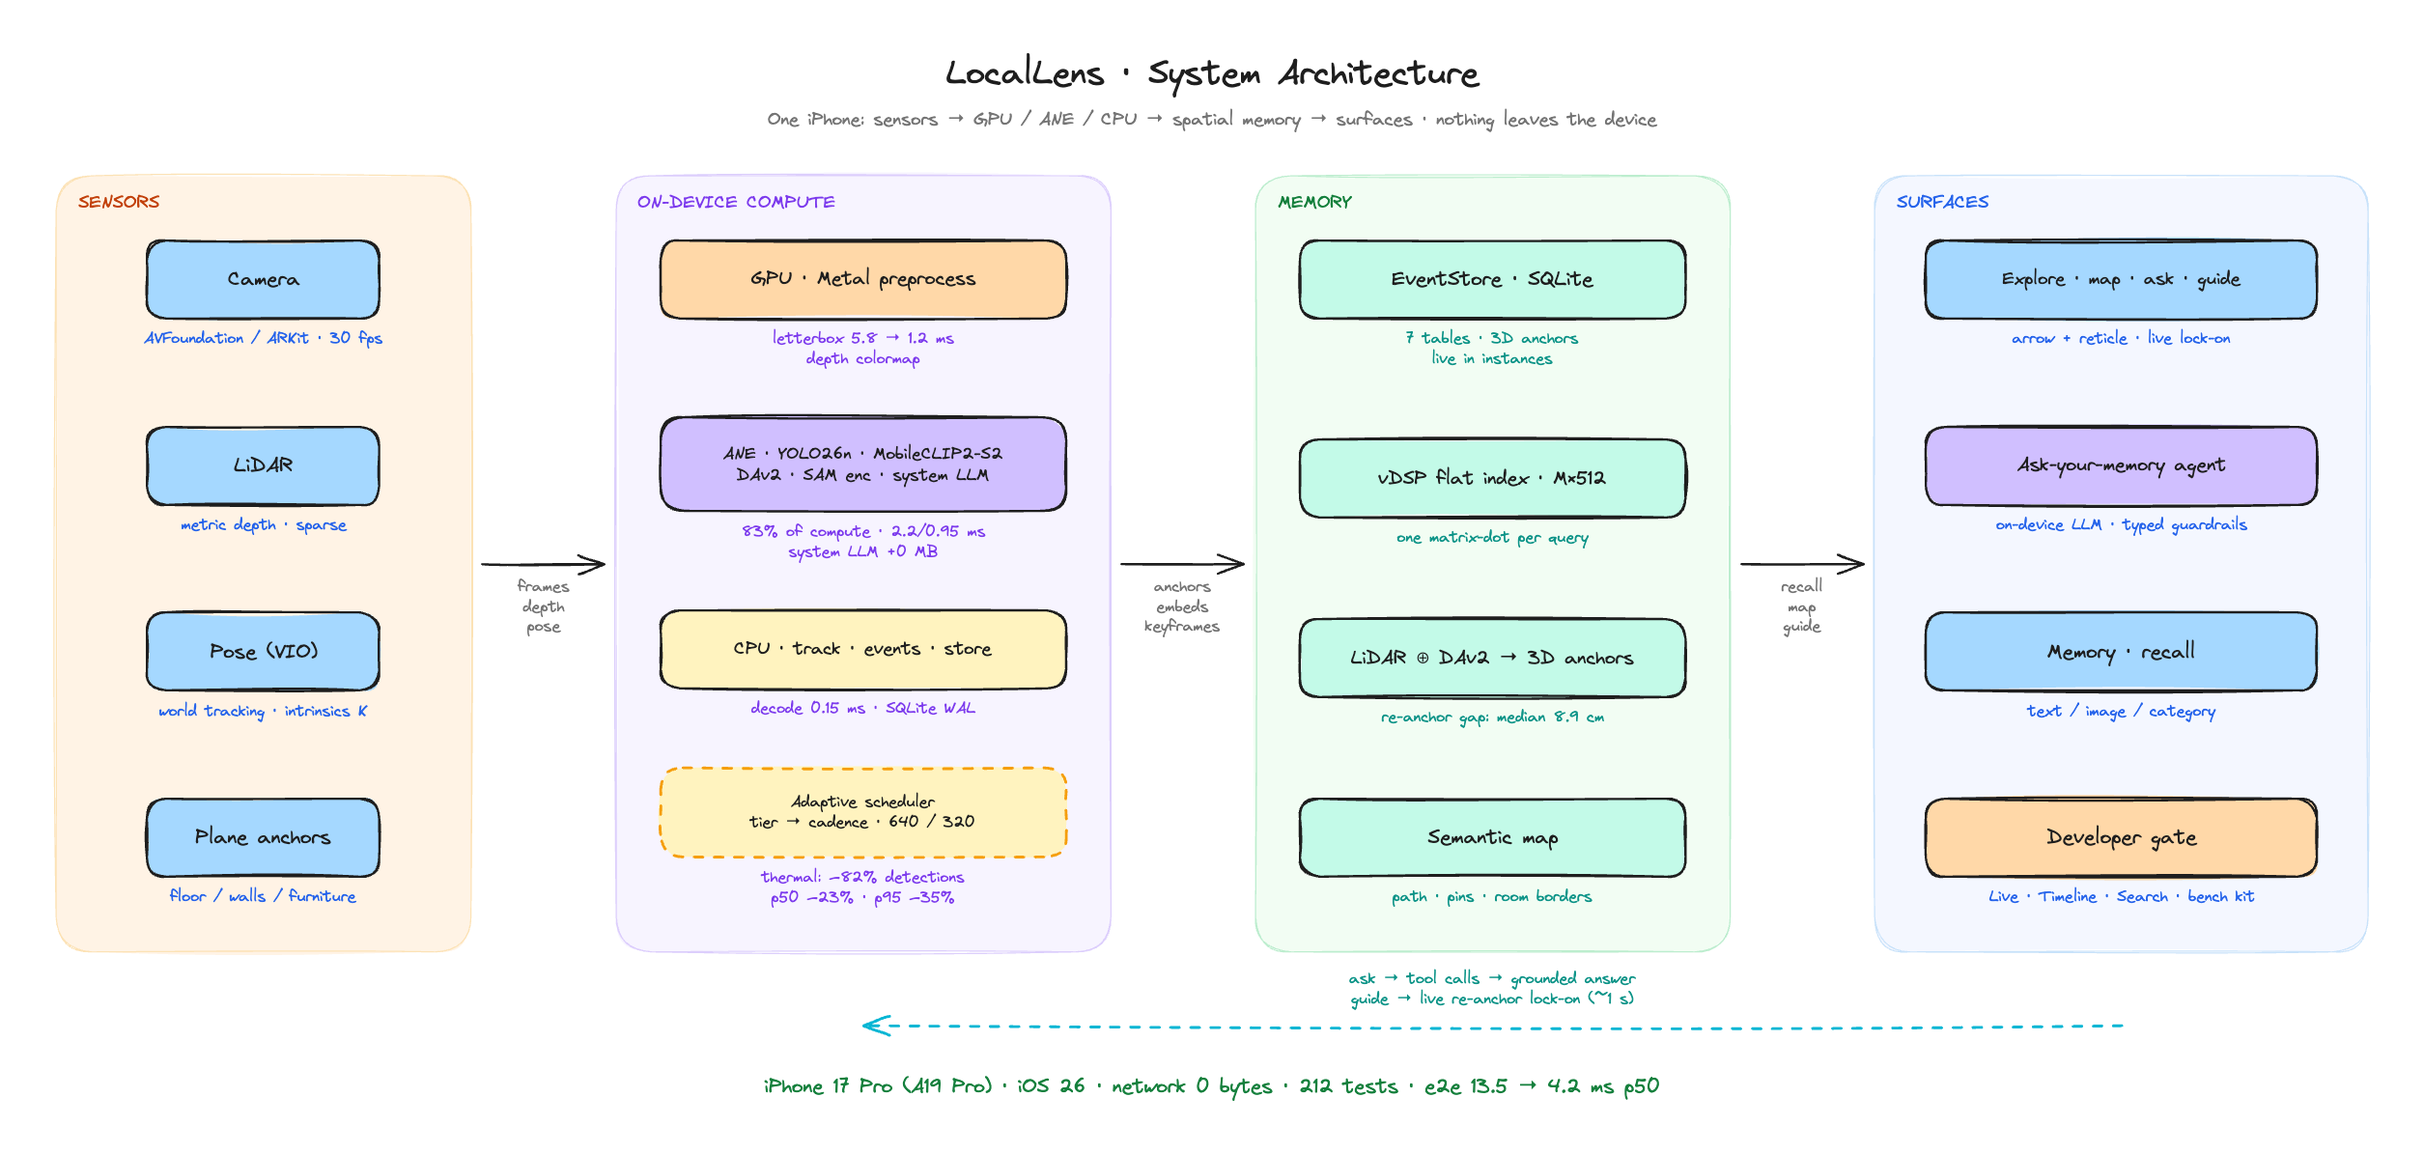
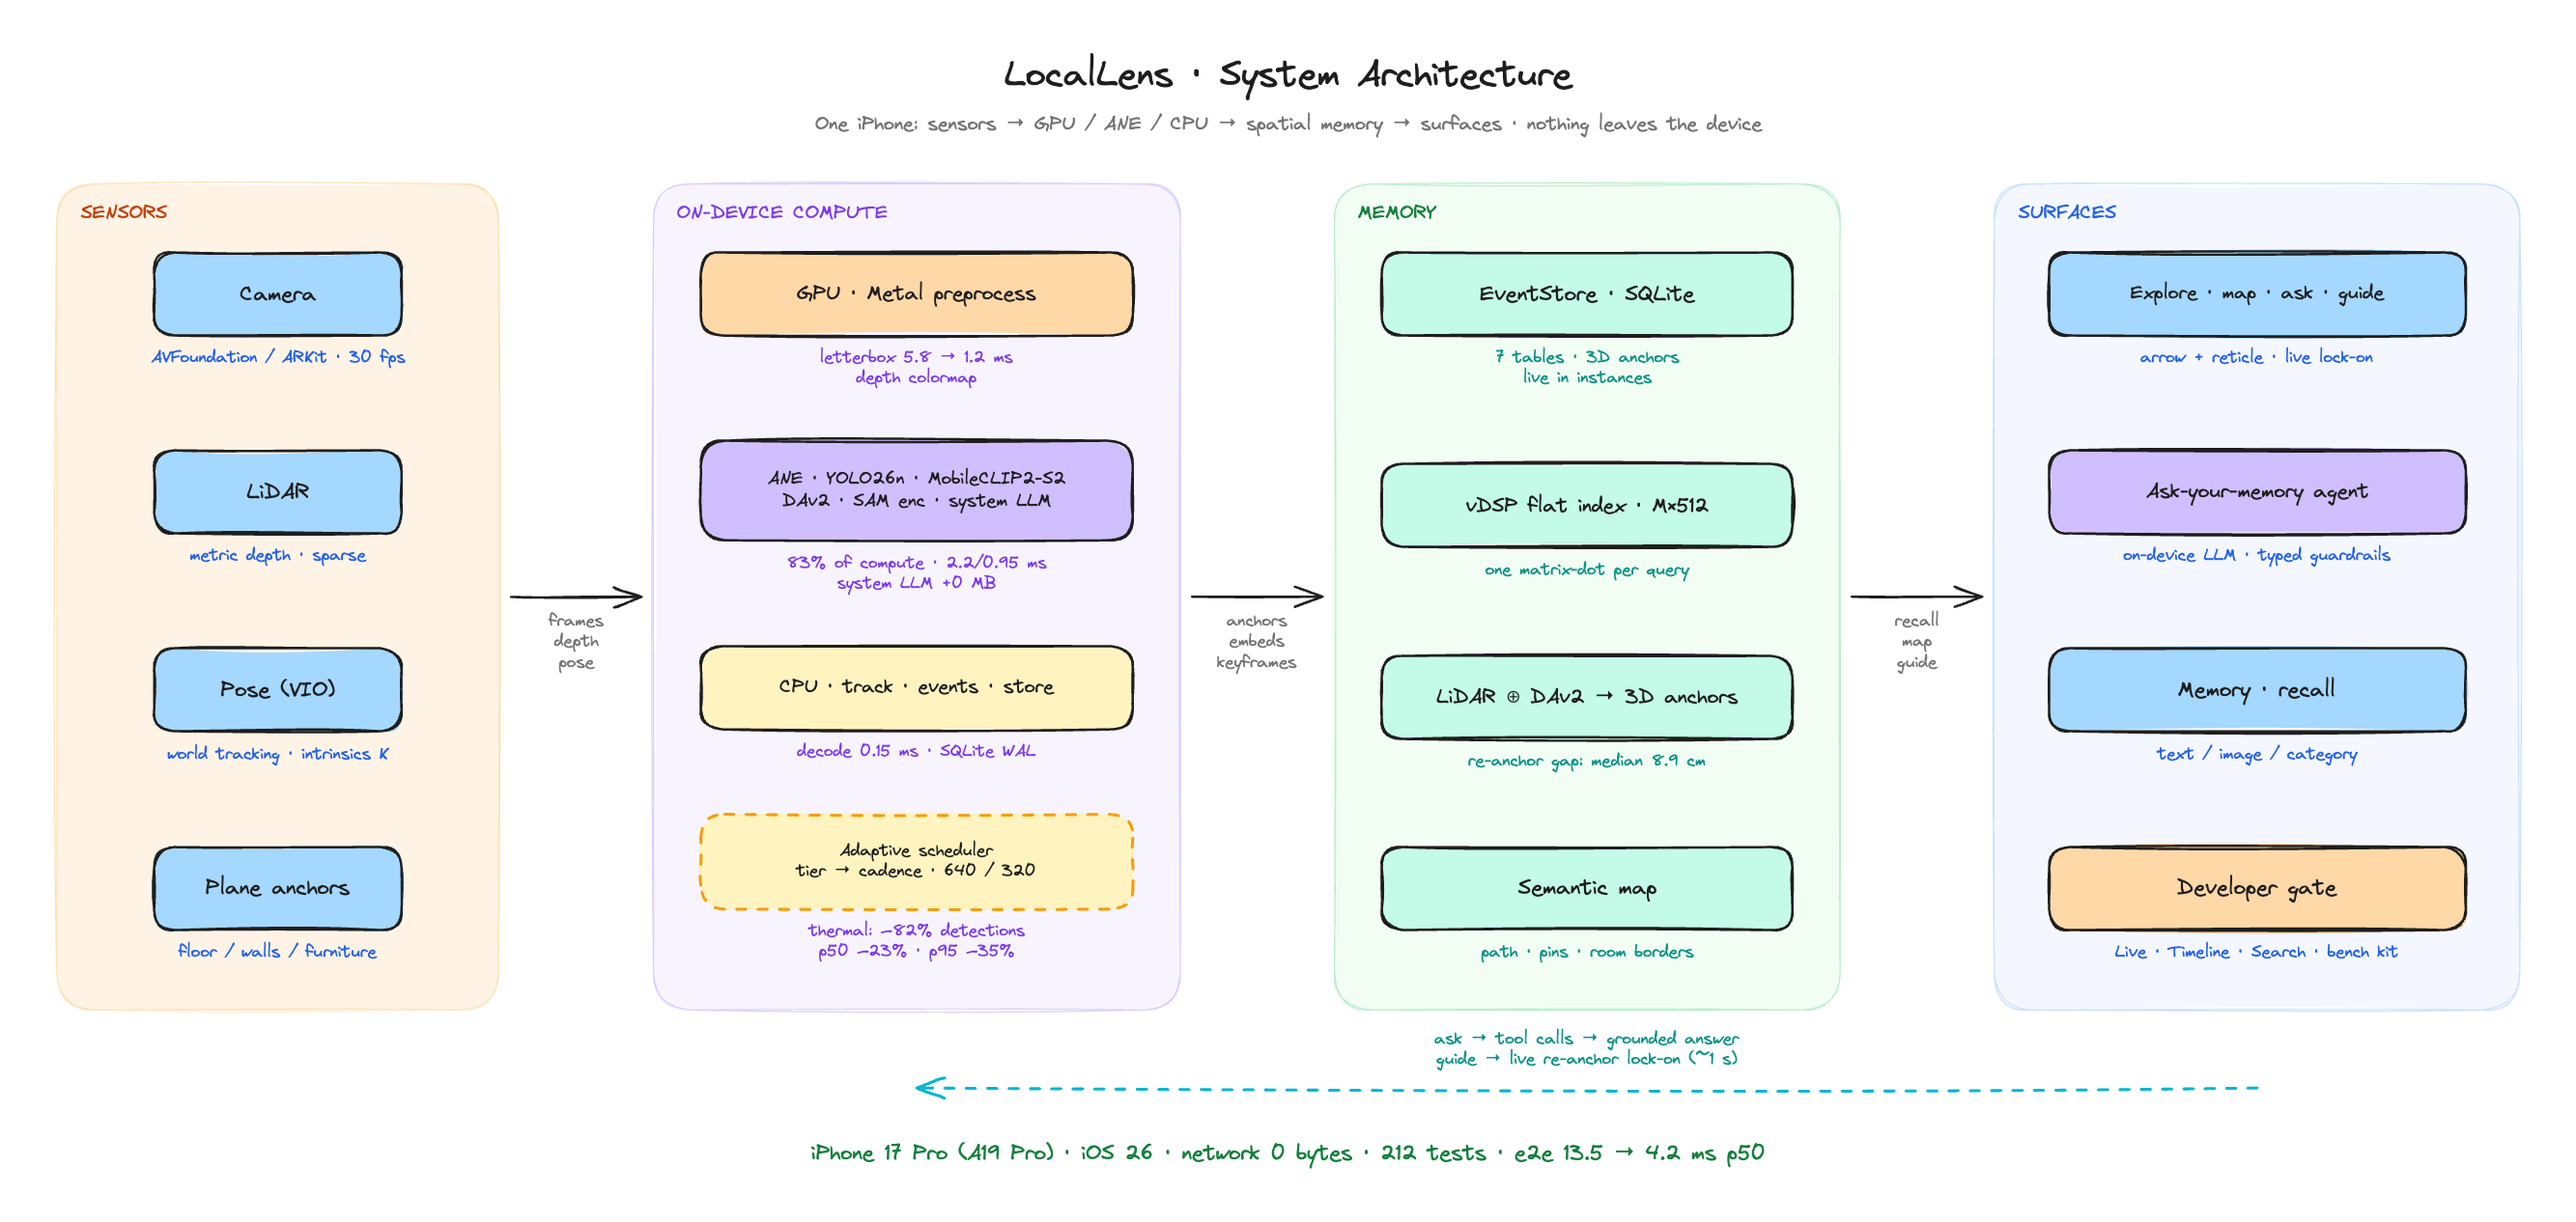
LocalLens diagrams: readable at column width, no zoom needed
All ten excalidraw diagrams regenerated with denser text metrics:
per-char width estimate 0.72 -> 0.62 (was leaving ~15% dead width in
every box) and a readability floor that lifts body/annotation fonts
~22% while titles keep their scale. Net effect: the smallest text at
the 1280px display width goes from ~7.5px to 10-16px. The compact
memory-schema figure is width-capped (1150px) so it no longer towers;
its merge label got a wider zone gap after the font lift re-broke it.
Transparent (web) + white (PDF) variants re-extracted; all ten
verified rendered for wraps/overlaps.

diff --git a/projects/locallens.html b/projects/locallens.html
@@ -134,7 +134,7 @@
       ships in the same binary behind a Developer Mode toggle.</p>
 
       <figure class="article__figure article__figure--wide">
-        <a href="../images/portfolio/projects/locallens/d1-system-architecture.png" target="_blank" rel="noopener noreferrer" title="Open full size"><img src="../images/portfolio/projects/locallens/d1-system-architecture.png" alt="LocalLens system architecture diagram" width="2510" height="1195" loading="lazy"></a>
+        <a href="../images/portfolio/projects/locallens/d1-system-architecture.png" target="_blank" rel="noopener noreferrer" title="Open full size"><img src="../images/portfolio/projects/locallens/d1-system-architecture.png" alt="LocalLens system architecture diagram" width="2667" height="1266" loading="lazy"></a>
         <figcaption>Figure 2. One iPhone: sensors &rarr; GPU/ANE/CPU &rarr; spatial memory &rarr; surfaces.
         The dashed return path is the ask-and-guide loop.</figcaption>
       </figure>
@@ -277,7 +277,7 @@
       state-by-content matrix is unit-tested on a Mac.</p>
 
       <figure class="article__figure article__figure--wide">
-        <a href="../images/portfolio/projects/locallens/d3-adaptive-scheduler.png" target="_blank" rel="noopener noreferrer" title="Open full size"><img src="../images/portfolio/projects/locallens/d3-adaptive-scheduler.png" alt="Adaptive scheduler diagram" width="2665" height="1641" loading="lazy"></a>
+        <a href="../images/portfolio/projects/locallens/d3-adaptive-scheduler.png" target="_blank" rel="noopener noreferrer" title="Open full size"><img src="../images/portfolio/projects/locallens/d3-adaptive-scheduler.png" alt="Adaptive scheduler diagram" width="2665" height="1650" loading="lazy"></a>
         <figcaption>Figure 5. System state picks a tier ceiling; the tier plus per-frame motion
         decides what runs. A tier switch costs 179&thinsp;ms.</figcaption>
       </figure>
@@ -442,8 +442,8 @@
       (events), appearance (embeddings), and recall. This section builds that chain; its schema is
       Figure&nbsp;9, and Figure&nbsp;10 is the chain read back in the app.</p>
 
-      <figure class="article__figure article__figure--wide">
-        <a href="../images/portfolio/projects/locallens/d4-memory-schema.png" target="_blank" rel="noopener noreferrer" title="Open full size"><img src="../images/portfolio/projects/locallens/d4-memory-schema.png" alt="Memory schema diagram" width="2219" height="2272" loading="lazy"></a>
+      <figure class="article__figure article__figure--wide" style="width: min(1150px, 92vw);">
+        <a href="../images/portfolio/projects/locallens/d4-memory-schema.png" target="_blank" rel="noopener noreferrer" title="Open full size"><img src="../images/portfolio/projects/locallens/d4-memory-schema.png" alt="Memory schema diagram" width="2482" height="2347" loading="lazy"></a>
         <figcaption>Figure 9. One SQLite file: a temporal log of what the camera saw, and a semantic
         registry of what exists. The <code>position</code> blob on instances is the 3D anchor of
         Section&nbsp;5.</figcaption>
@@ -496,7 +496,7 @@
       outputs in unit tests.</p>
 
       <figure class="article__figure article__figure--wide">
-        <a href="../images/portfolio/projects/locallens/d5-recall-dataflow.png" target="_blank" rel="noopener noreferrer" title="Open full size"><img src="../images/portfolio/projects/locallens/d5-recall-dataflow.png" alt="Recall dataflow diagram" width="2651" height="878" loading="lazy"></a>
+        <a href="../images/portfolio/projects/locallens/d5-recall-dataflow.png" target="_blank" rel="noopener noreferrer" title="Open full size"><img src="../images/portfolio/projects/locallens/d5-recall-dataflow.png" alt="Recall dataflow diagram" width="2729" height="907" loading="lazy"></a>
         <figcaption>Figure 11. Text and image queries meet in the same 512-d space; category recall
         bypasses embeddings entirely.</figcaption>
       </figure>
@@ -527,7 +527,7 @@
       own error sources.</p>
 
       <figure class="article__figure article__figure--wide">
-        <a href="../images/portfolio/projects/locallens/d6-ar-perception-loop.png" target="_blank" rel="noopener noreferrer" title="Open full size"><img src="../images/portfolio/projects/locallens/d6-ar-perception-loop.png" alt="AR perception loop diagram" width="2487" height="1585" loading="lazy"></a>
+        <a href="../images/portfolio/projects/locallens/d6-ar-perception-loop.png" target="_blank" rel="noopener noreferrer" title="Open full size"><img src="../images/portfolio/projects/locallens/d6-ar-perception-loop.png" alt="AR perception loop diagram" width="2642" height="1685" loading="lazy"></a>
         <figcaption>Figure 12. Every 6th ARFrame: gate, detect on the upright image, fuse depth,
         unproject in buffer space. Roughly 10&thinsp;Hz of perception beside 60&thinsp;fps tracking.</figcaption>
       </figure>
@@ -560,7 +560,7 @@
       which caught a constant-patch conditioning bug off-device.</p>
 
       <figure class="article__figure article__figure--wide">
-        <a href="../images/portfolio/projects/locallens/d7-depth-fusion.png" target="_blank" rel="noopener noreferrer" title="Open full size"><img src="../images/portfolio/projects/locallens/d7-depth-fusion.png" alt="Depth fusion diagram" width="2665" height="1437" loading="lazy"></a>
+        <a href="../images/portfolio/projects/locallens/d7-depth-fusion.png" target="_blank" rel="noopener noreferrer" title="Open full size"><img src="../images/portfolio/projects/locallens/d7-depth-fusion.png" alt="Depth fusion diagram" width="2664" height="1435" loading="lazy"></a>
         <figcaption>Figure 13. Sparse-but-metric plus dense-but-relative, aligned by scale and shift
         where the ambiguity actually lives.</figcaption>
       </figure>
@@ -657,7 +657,7 @@
       enforcement.</p>
 
       <figure class="article__figure article__figure--wide">
-        <a href="../images/portfolio/projects/locallens/d8-agent-sequence.png" target="_blank" rel="noopener noreferrer" title="Open full size"><img src="../images/portfolio/projects/locallens/d8-agent-sequence.png" alt="Agent sequence diagram" width="2666" height="1208" loading="lazy"></a>
+        <a href="../images/portfolio/projects/locallens/d8-agent-sequence.png" target="_blank" rel="noopener noreferrer" title="Open full size"><img src="../images/portfolio/projects/locallens/d8-agent-sequence.png" alt="Agent sequence diagram" width="2666" height="1214" loading="lazy"></a>
         <figcaption>Figure 16. A fresh session per question, tools that record what they returned,
         typed gates, and a human who does the navigating.</figcaption>
       </figure>
@@ -738,7 +738,7 @@
       typed search results directly and says it is doing so.</p>
 
       <figure class="article__figure article__figure--wide">
-        <a href="../images/portfolio/projects/locallens/d9-guardrail-flow.png" target="_blank" rel="noopener noreferrer" title="Open full size"><img src="../images/portfolio/projects/locallens/d9-guardrail-flow.png" alt="Guardrail decision flow diagram" width="2309" height="2629" loading="lazy"></a>
+        <a href="../images/portfolio/projects/locallens/d9-guardrail-flow.png" target="_blank" rel="noopener noreferrer" title="Open full size"><img src="../images/portfolio/projects/locallens/d9-guardrail-flow.png" alt="Guardrail decision flow diagram" width="2246" height="2414" loading="lazy"></a>
         <figcaption>Figure 18. How a proposal becomes a target. Green paths carry only ids the
         model&rsquo;s own tool calls returned.</figcaption>
       </figure>
@@ -760,7 +760,7 @@
       Section&nbsp;<a href="#s7">7</a>, after look-alike twins abuse the generous version.</p>
 
       <figure class="article__figure article__figure--wide">
-        <a href="../images/portfolio/projects/locallens/d10-guidance-states.png" target="_blank" rel="noopener noreferrer" title="Open full size"><img src="../images/portfolio/projects/locallens/d10-guidance-states.png" alt="Guidance state machine diagram" width="2456" height="1506" loading="lazy"></a>
+        <a href="../images/portfolio/projects/locallens/d10-guidance-states.png" target="_blank" rel="noopener noreferrer" title="Open full size"><img src="../images/portfolio/projects/locallens/d10-guidance-states.png" alt="Guidance state machine diagram" width="2665" height="1617" loading="lazy"></a>
         <figcaption>Figure 19. Map the space, ask the memory, walk over with live verification.
         Perception pauses only while asking.</figcaption>
       </figure>
